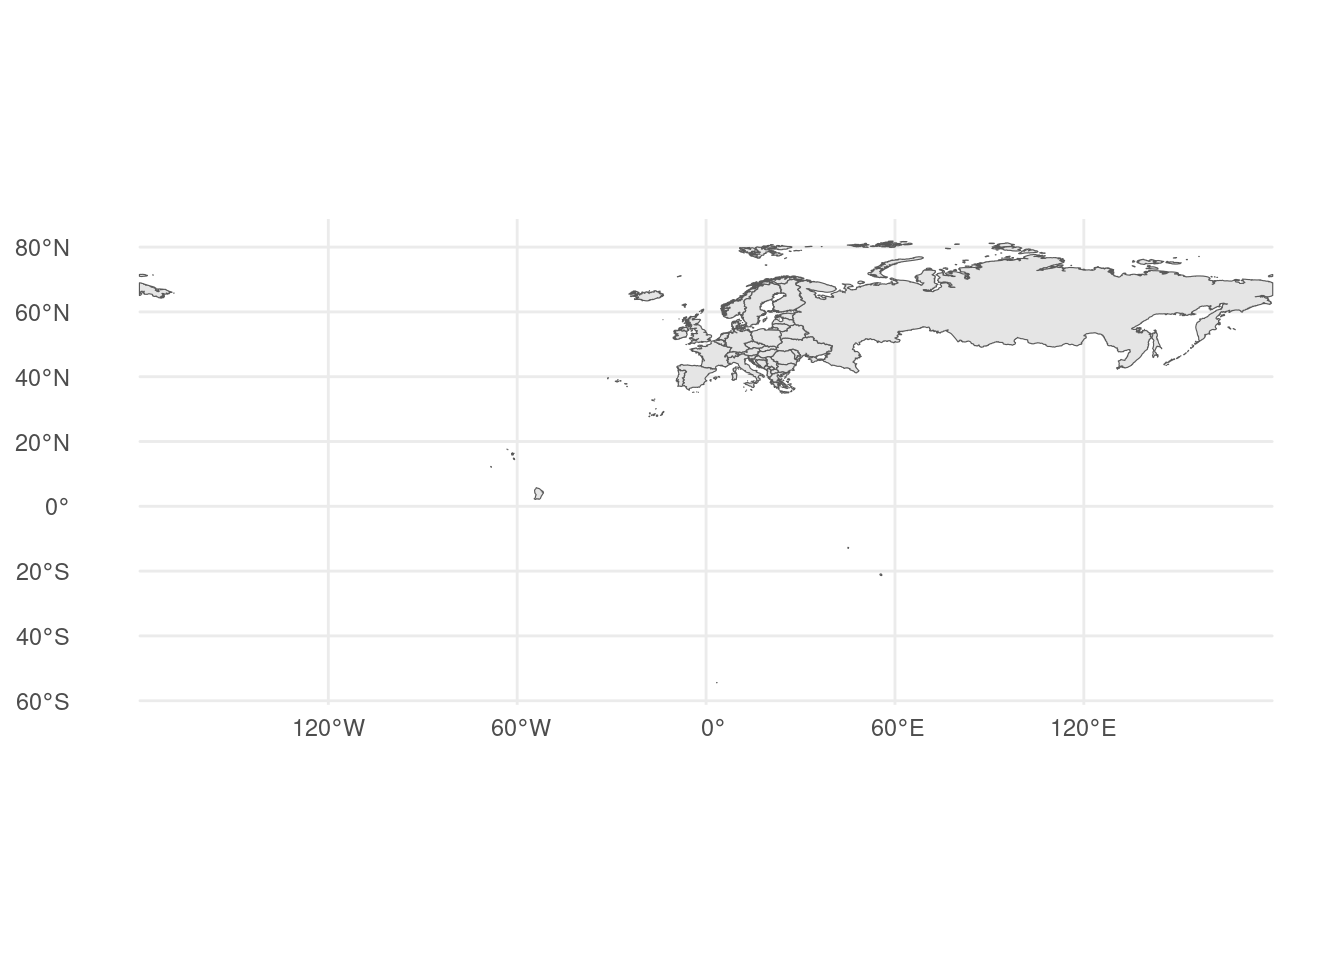
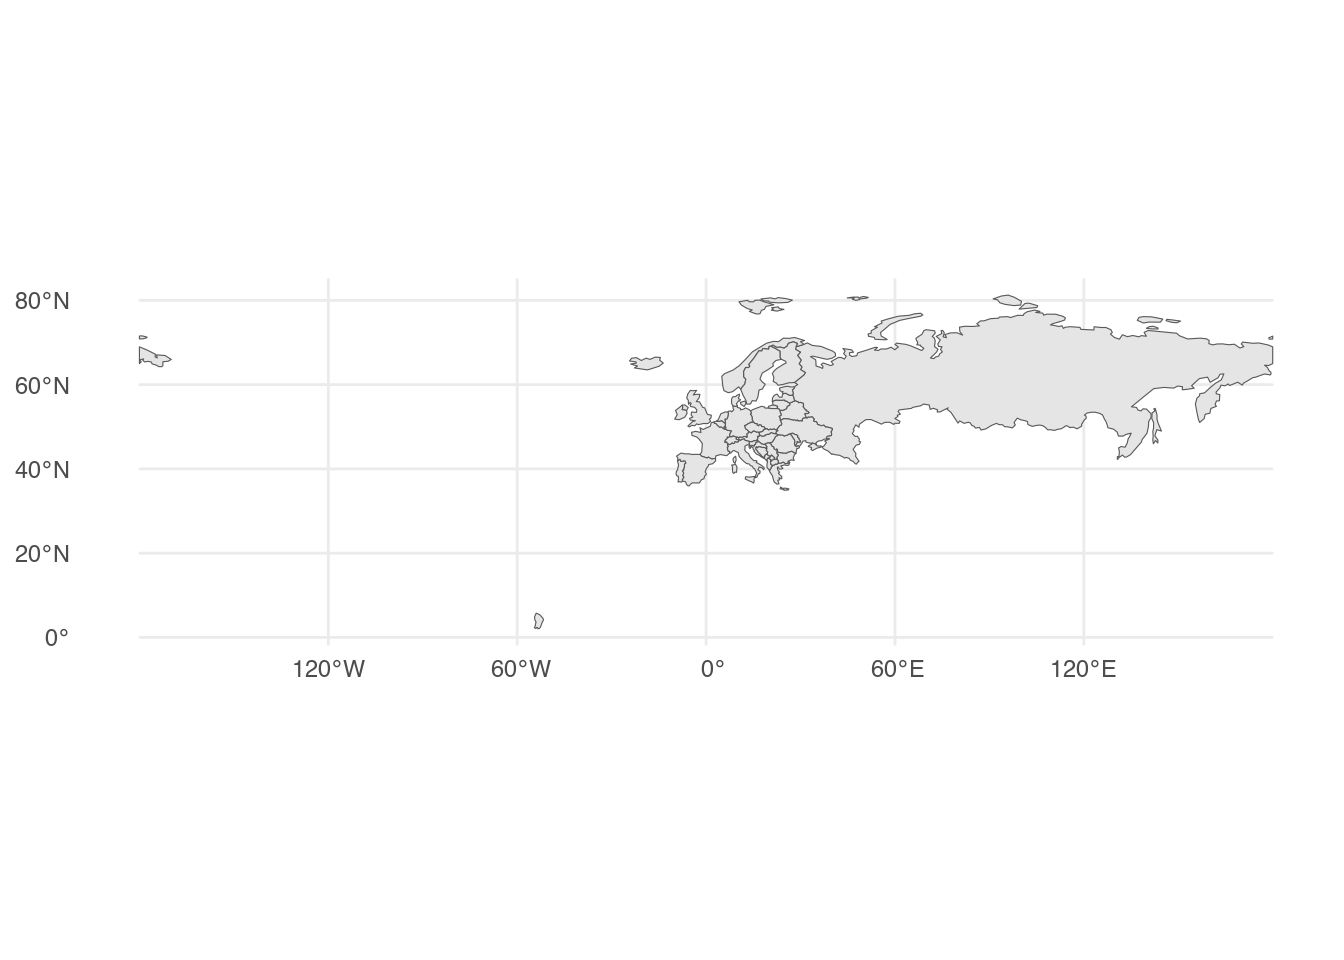
up: use small scale for naturalearth

diff --git a/docs/ressources/where_data/where_data.html b/docs/ressources/where_data/where_data.html
@@ -1137,7 +1137,7 @@ Niveau d’eau et état de mer
 </div>
 </div>
 <p>On obtient toute les données disponibles. Nous utiliserons les données de la BDTOPO <code>BDTOPO_V3:batiment</code>. L’étape suivant consiste à filtrer la couche pour ne retenir que les informations qui nous intéresse. On peut filtrer par attributs ou par opération spatiale. Le filtre sera réalisé sur les serveurs de l’IGN et vous récupérez le résultat.</p>
-<p>Pour filtrer par attribut, on utilise un filtre ECQL. Il s’agit d’un langage de requête très proche du SQL (ce qui vous utilisez sous QGIS pur filtrer vos données). Pour savoir comment filtrer vos données, il vous faut d’abord savoir quels sont les attributs de votre couche. Pour cela, on utilise la fonction <code>get_wfs_attributes()</code>.</p>
+<p>Pour filtrer par attribut, on utilise un filtre ECQL. Il s’agit d’un langage de requête très proche du SQL (ce qui vous utilisez sous QGIS pour filtrer vos données). Pour savoir comment filtrer vos données, il vous faut d’abord savoir quels sont les attributs de votre couche. Pour cela, on utilise la fonction <code>get_wfs_attributes()</code>.</p>
 <div class="cell">
 <div class="sourceCode cell-code" id="cb5"><pre class="sourceCode r code-with-copy"><code class="sourceCode r"><span id="cb5-1"><a href="#cb5-1" aria-hidden="true" tabindex="-1"></a><span class="fu">get_wfs_attributes</span>(<span class="st">"BDTOPO_V3:commune"</span>)</span></code><button title="Copy to Clipboard" class="code-copy-button"><i class="bi"></i></button></pre></div>
 <div class="cell-output cell-output-stdout">
@@ -1206,7 +1206,7 @@ Niveau d’eau et état de mer
 <p>Pour des fond de cartes à petites échelles, se tournera vers <a href="https://www.naturalearthdata.com/">Natural Earth</a>. Ce jeu de données enregistre les données élémentaires pour créer des fonds de cartes : frontières des pays, routes, cours d’eau, toponymie, zones urbaines, lacs, etc.</p>
 <p>Le package <a href="https://ropensci.github.io/rnaturalearth/"><code>rnaturalearth</code></a> permet de récupérer directement ces données sous <code>R</code>. Pour une carte du continent européen :</p>
 <div class="cell">
-<div class="sourceCode cell-code" id="cb13"><pre class="sourceCode r code-with-copy"><code class="sourceCode r"><span id="cb13-1"><a href="#cb13-1" aria-hidden="true" tabindex="-1"></a>europe <span class="ot">&lt;-</span> rnaturalearth<span class="sc">::</span><span class="fu">ne_countries</span>(<span class="at">continent =</span> <span class="st">"Europe"</span>, <span class="at">scale =</span> <span class="st">"large"</span>)</span>
+<div class="sourceCode cell-code" id="cb13"><pre class="sourceCode r code-with-copy"><code class="sourceCode r"><span id="cb13-1"><a href="#cb13-1" aria-hidden="true" tabindex="-1"></a>europe <span class="ot">&lt;-</span> rnaturalearth<span class="sc">::</span><span class="fu">ne_countries</span>(<span class="at">continent =</span> <span class="st">"Europe"</span>, <span class="at">scale =</span> <span class="st">"small"</span>)</span>
 <span id="cb13-2"><a href="#cb13-2" aria-hidden="true" tabindex="-1"></a></span>
 <span id="cb13-3"><a href="#cb13-3" aria-hidden="true" tabindex="-1"></a><span class="fu">ggplot</span>() <span class="sc">+</span></span>
 <span id="cb13-4"><a href="#cb13-4" aria-hidden="true" tabindex="-1"></a>  <span class="fu">geom_sf</span>(<span class="at">data =</span> europe) <span class="sc">+</span></span>
